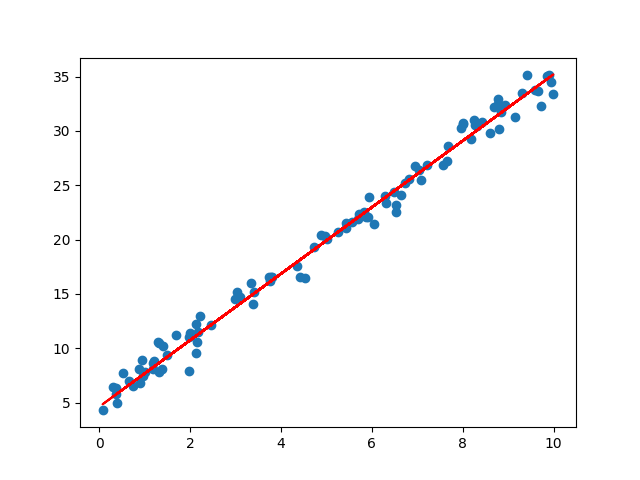
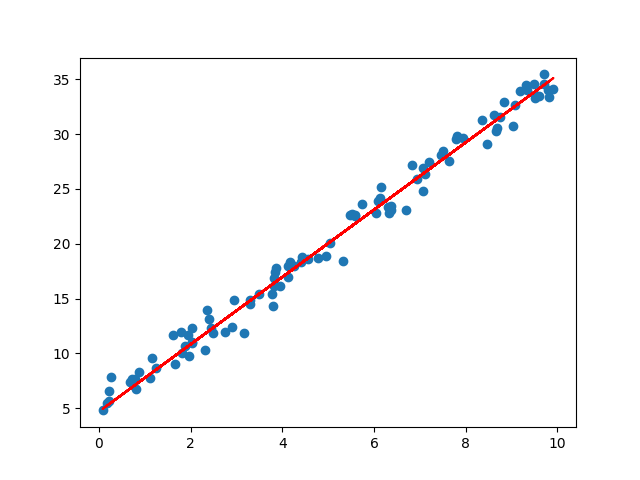
update in experiments

diff --git a/projects/from_scratch_ai_ml/src/linear_regression.py b/projects/from_scratch_ai_ml/src/linear_regression.py
@@ -1,44 +1,70 @@
 import numpy as np
 
+
 class LinearRegression:
-    def __init__(self, learning_rate=0.01, n_iterations=1000):
-        self.learning_rate = learning_rate #step size
-        self.n_iterations = n_iterations   #training loop control
-        self.weights = None  #model paramter theta  
-        self.bias = None    # intercept
+    def __init__(self, learning_rate=0.01, n_iterations=1000, verbose=False):
+        self.learning_rate = learning_rate
+        self.n_iterations = n_iterations
+        self.verbose = verbose
 
+        self.weights = None  # shape: (n_features, 1)
+        self.bias = None
 
+        self.costs = []  # store loss history
+
+    # -------------------------
+    # Prediction: h(x) = XW + b
+    # -------------------------
     def predict(self, X):
-        return np.dot(X, self.weights) + self.bias # h(x)=XW+b
+        return np.dot(X, self.weights) + self.bias
 
-    #  cost computation by formula : J(θ)= 1/2m ∑i=1,m(hθ(x(i))−y(i))2
+    # -------------------------
+    # Cost function (MSE)
+    # J = 1/2m * sum((y_pred - y)^2)
+    # -------------------------
     def _compute_cost(self, y, y_pred):
-        m = len(y)
+        m = y.shape[0]
         cost = (1 / (2 * m)) * np.sum((y_pred - y) ** 2)
         return cost
 
-
+    # -------------------------
+    # Training (Gradient Descent)
+    # -------------------------
     def fit(self, X, y):
         n_samples, n_features = X.shape
 
-        # initialize parameters
-        self.weights = np.zeros(n_features)
+        # Ensure proper shapes
+        if y.ndim == 1:
+            y = y.reshape(-1, 1)
+
+        # Initialize parameters
+        self.weights = np.zeros((n_features, 1))
         self.bias = 0
 
+        self.costs = []
+
         for i in range(self.n_iterations):
+            # Forward pass
             y_pred = self.predict(X)
 
-            # compute gradients
+            # Compute gradients
             dw = (1 / n_samples) * np.dot(X.T, (y_pred - y))
             db = (1 / n_samples) * np.sum(y_pred - y)
 
-            # update parameters
+            # Update parameters
             self.weights -= self.learning_rate * dw
             self.bias -= self.learning_rate * db
-            self.costs = []
 
-            for i in range(self.n_iterations):
-                y_pred = self.predict(X)
+            # Compute and store cost
+            cost = self._compute_cost(y, y_pred)
+            self.costs.append(cost)
 
-                cost = self._compute_cost(y, y_pred)
-                self.costs.append(cost)
+            # Optional logging
+            if self.verbose and i % 100 == 0:
+                grad_norm = np.linalg.norm(dw)
+                print(
+                    f"Iter {i:04d} | Cost: {cost:.6f} | "
+                    f"||dW||: {grad_norm:.6f} | bias: {self.bias:.4f}"
+                )
+
+        return self.costs

diff --git a/projects/from_scratch_ai_ml/experiments/linear_regression/scaling_experiments.py b/projects/from_scratch_ai_ml/experiments/linear_regression/scaling_experiments.py
@@ -1,0 +1,23 @@
+import numpy as np
+import matplotlib.pyplot as plt
+from src.linear_regression import LinearRegression
+
+# dataset
+X = np.random.randn(100, 2)
+y = X @ np.array([[3], [2]]) + 1
+
+# scaling configs
+datasets = {
+    "no_scaling": X,
+    "standardized": (X - X.mean(axis=0)) / X.std(axis=0),
+}
+
+for name, X_variant in datasets.items():
+    model = LinearRegression(learning_rate=0.01)
+    losses = model.fit(X_variant, y)
+
+    plt.plot(losses, label=name)
+
+plt.legend()
+plt.title("Scaling Comparison")
+plt.savefig("scaling_comparison.png")

diff --git a/projects/ai_ml/week03/nn_scratch.py b/projects/ai_ml/week03/nn_scratch.py
@@ -136,7 +136,6 @@ for epoch in range(epochs):
     # Loss
     loss = compute_loss(y, y_pred)
     losses.append(loss)
-    
     # Backprop
     dz2 = y_pred - y
 
@@ -148,7 +147,8 @@ for epoch in range(epochs):
 
     dW1 = X.T @ dz1 / N
     db1 = np.mean(dz1, axis=0, keepdims=True)
-
+    
+    print("||dW1||:", np.linalg.norm(dW1), "||dW2||:", np.linalg.norm(dW2)) 
     # Update
     W1 -= learning_rate * dW1
     b1 -= learning_rate * db1

diff --git a/projects/from_scratch_ai_ml/experiments/linear_regression/run_linear_regression.py b/projects/from_scratch_ai_ml/experiments/linear_regression/run_linear_regression.py
@@ -1,0 +1,15 @@
+from src.linear_regression import LinearRegression
+import numpy as np
+import matplotlib.pyplot as plt
+
+# dataset
+X = np.random.randn(100, 2)
+y = X @ np.array([[3], [2]]) + 1
+
+model = LinearRegression(learning_rate=0.01, verbose=True)
+losses = model.fit(X, y)
+
+plt.plot(losses)
+plt.title("Loss Curve")
+plt.savefig("linear_reg.png")
+#plt.show()
